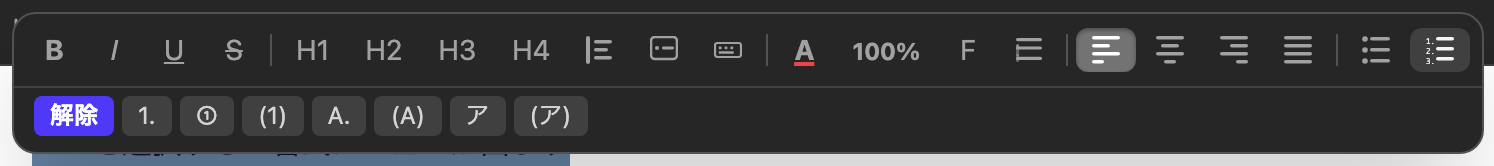
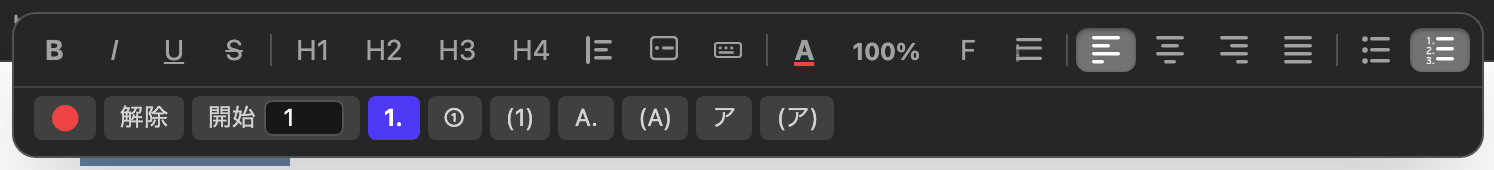
docs(guide): 開始番号の説明と、リストパネルの写真の撮り直し
リストのサブパネルは【リストの中にいるとき】だけ全部のボタンが出る（記号の色 ●・
開始番号は対象が無ければ隠れる）。撮影スクリプトもリストを仕込んでから開くように
直し、マニュアルには本当の姿を載せる。

diff --git a/public/guide/index.html b/public/guide/index.html
@@ -563,6 +563,27 @@
         3 番目だった項目が 2. になります）。<kbd>Shift</kbd>+<kbd>Tab</kbd> で戻せば番号も元どおりです。
       </p>
 
+      <h4>途中から番号を続ける・好きな番号から始める</h4>
+      <p>
+        説明の段落を挟んでリストを分けると、<strong>後ろのリストは 1 から始まります</strong>。
+        続きの番号にしたいときは、番号パネルの <strong>「開始」</strong>に数字を入れます
+        （そのリストの 1 番目が何番になるか、という指定です）。
+      </p>
+      <div class="demo">
+        <div class="demo__label">実際の表示（後ろのリストの開始を 3 にした場合）</div>
+        <div class="kuro-content">
+          <ol class="kuro-list-decimal"><li>材料をそろえる</li><li>下ごしらえをする</li></ol>
+          <p>ここで一度、火加減の説明をはさみます。</p>
+          <ol class="kuro-list-decimal" start="3"><li>炒める</li><li>盛り付ける</li></ol>
+        </div>
+      </div>
+      <ul>
+        <li>「開始」は<strong>リストの中にカーソルがあるときだけ</strong>出ます（対象のリストが無ければ指定しようがないため）。</li>
+        <li><strong>1 に戻すと指定は消えます</strong>（＝ふつうの 1 始まりに戻る）。</li>
+        <li>入れ子の子リストにも個別に指定できます（親の番号は変わりません）。</li>
+        <li>丸数字やカタカナなど、他の記号でも同じように効きます（開始 4 → ④）。</li>
+      </ul>
+
       <h3>リストをやめる（「解除」は 2 段階）</h3>
       <ol>
         <li><strong>1 回目</strong> — 記号だけが消えます。項目の位置と階層はそのまま。</li>
